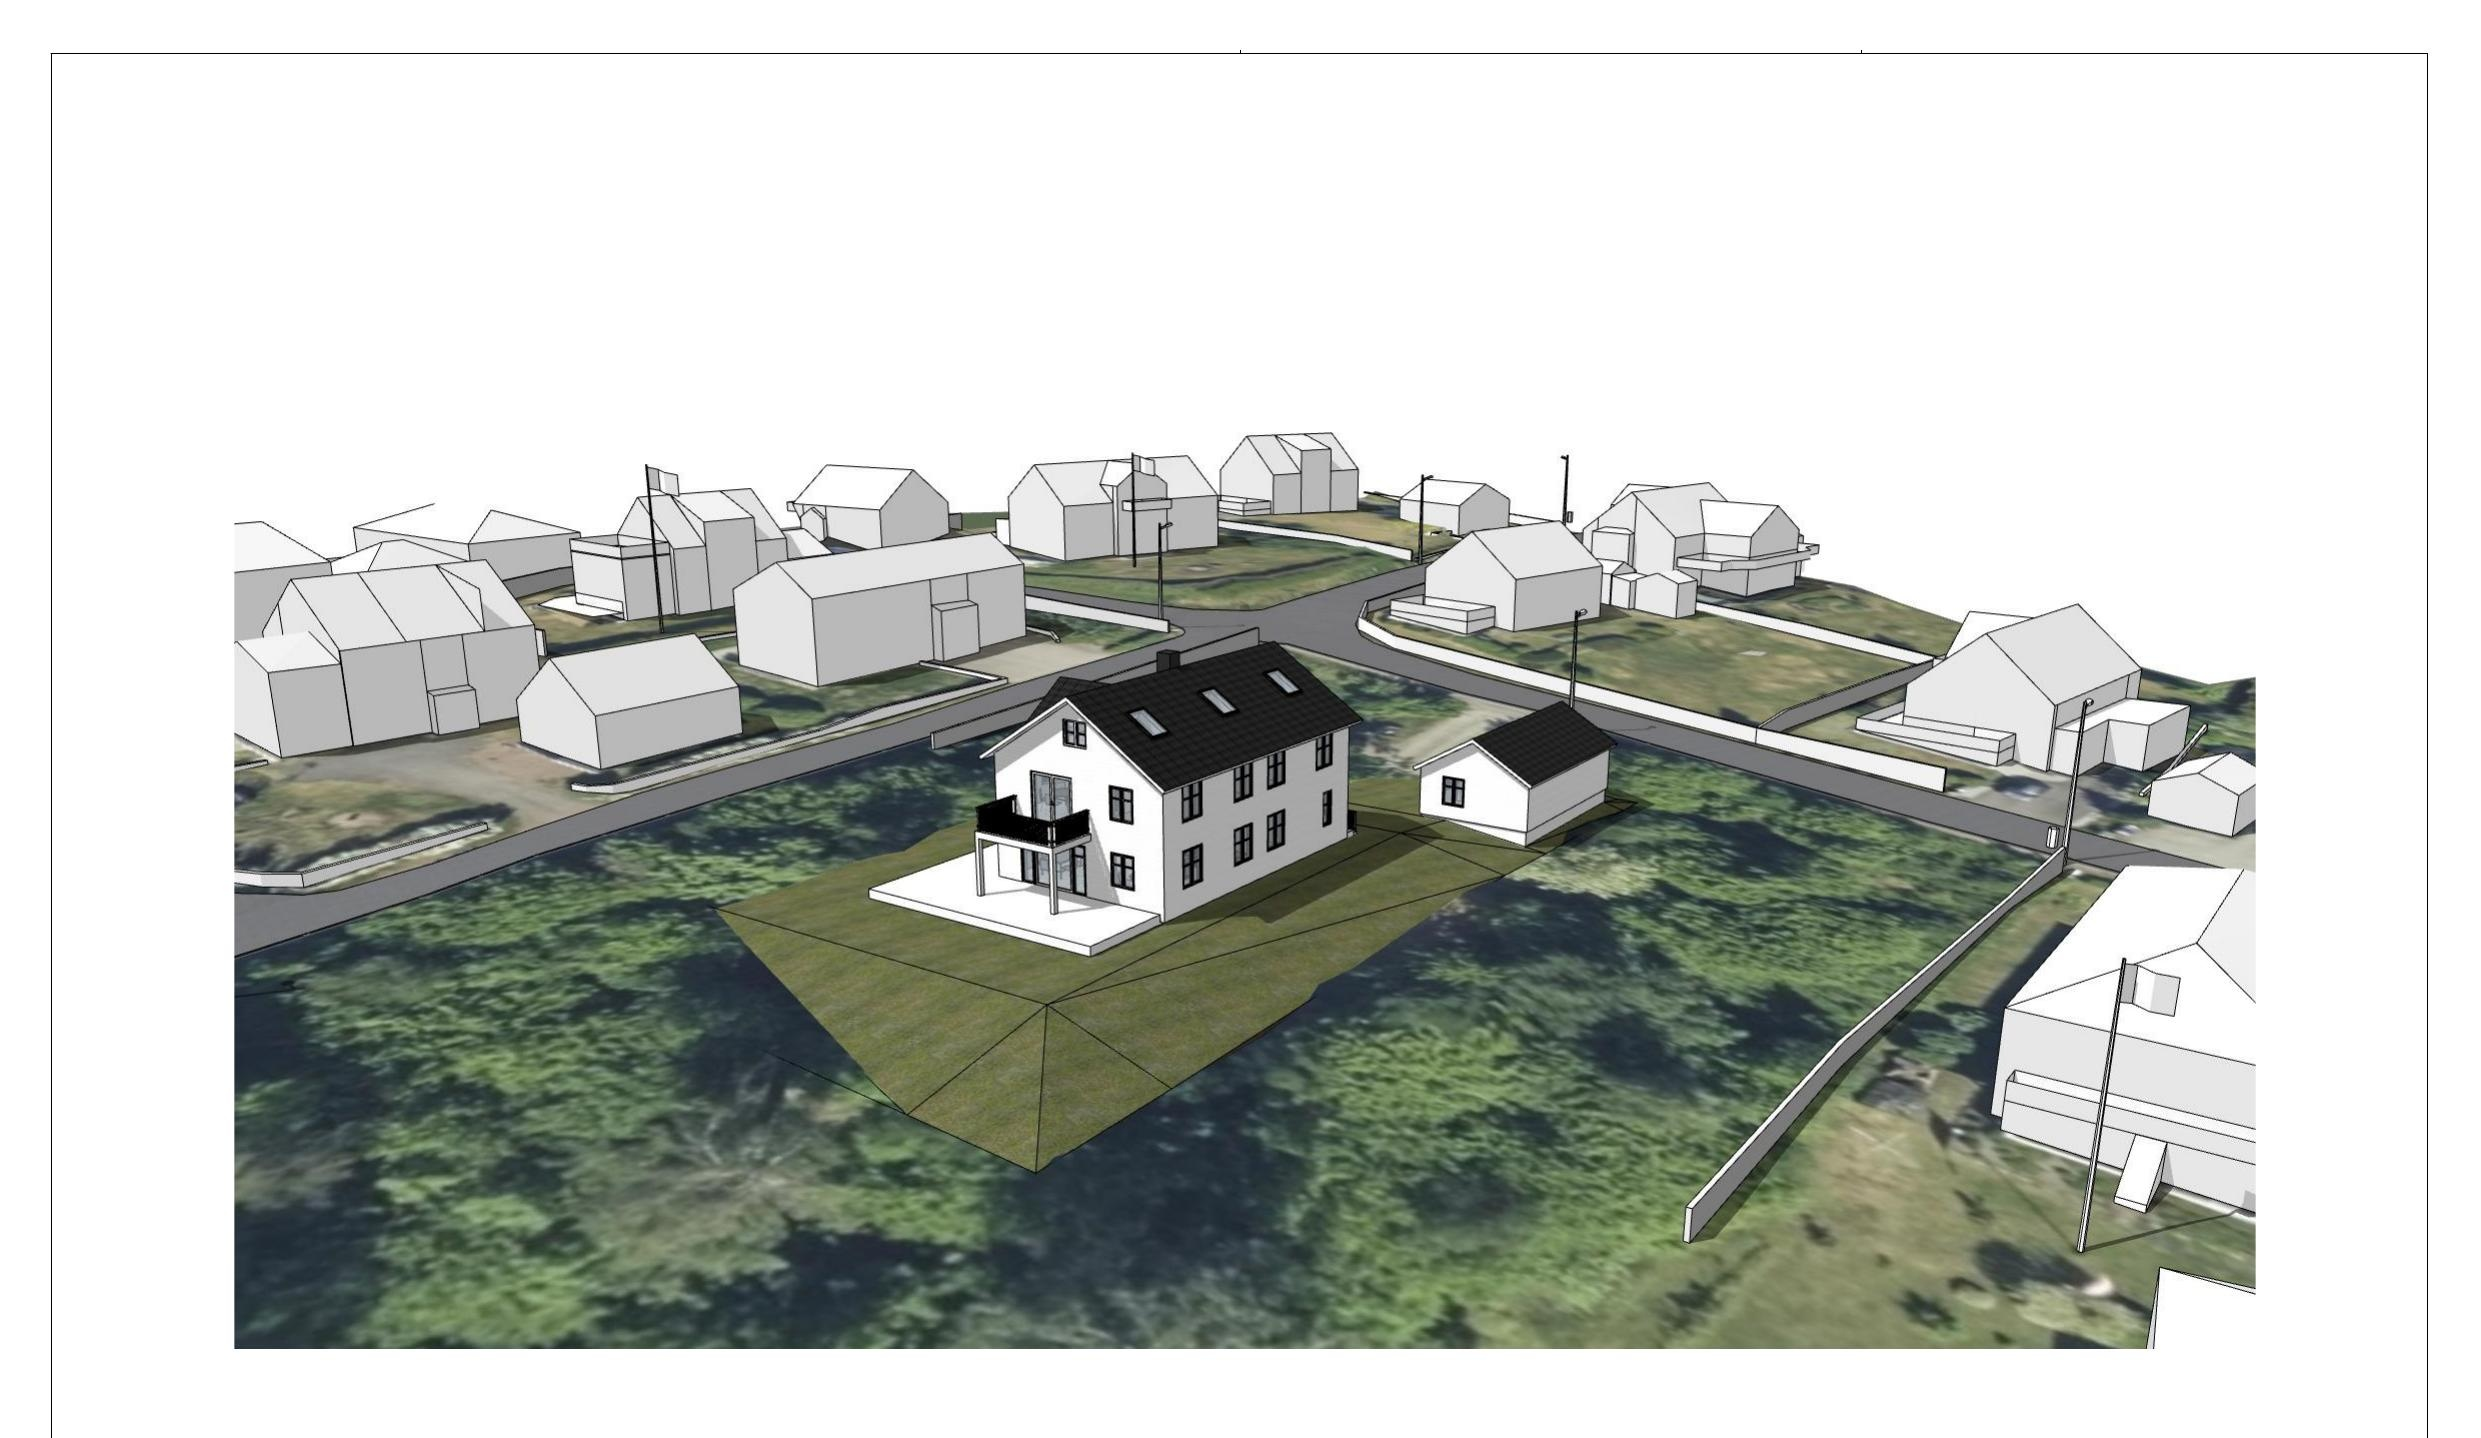
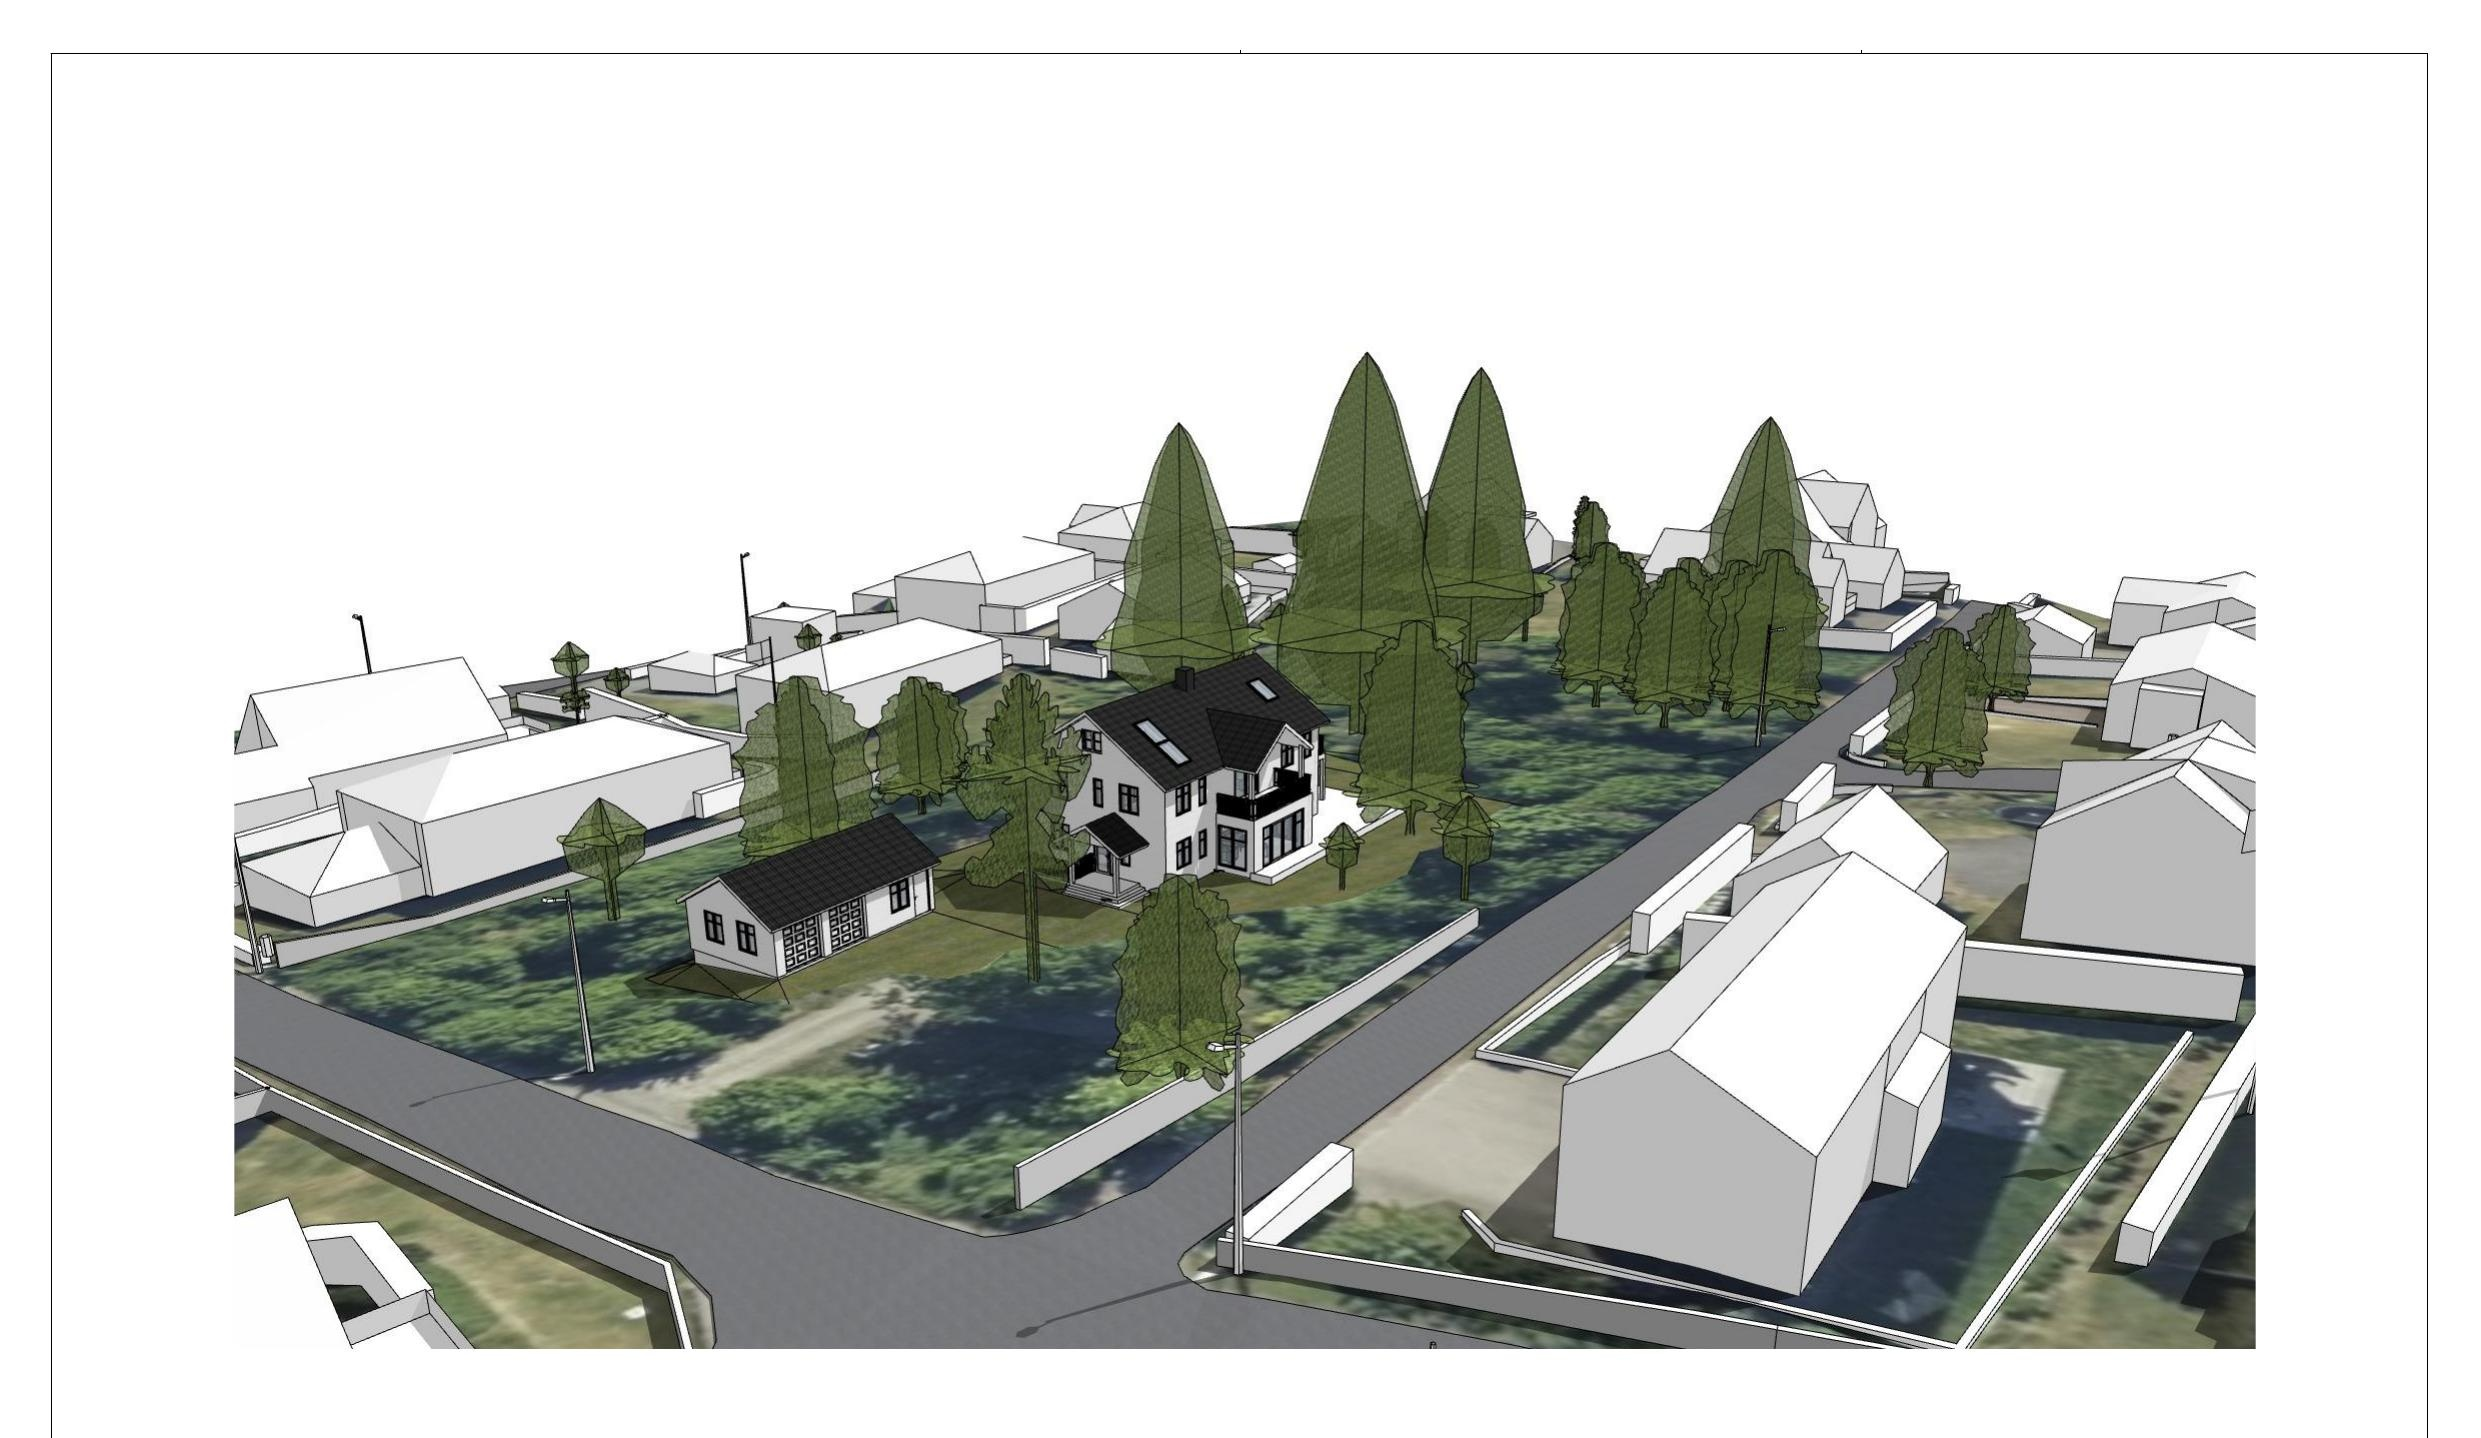
Add official A-900 Perspektiv Nordvest 3D drawing card to index.html

diff --git a/index.html b/index.html
@@ -237,6 +237,18 @@
           </div>
         </div>
 
+        <!-- Perspektiv Nordvest A-900 -->
+        <div class="drawing-card" data-cat="perspektiv">
+          <div class="drawing-img-wrapper" onclick="openLightbox('assets/images/drawings/perspektiv_nordvest-1.jpg', 'Tegning A-900 (2026-04-21): Perspektiv Nordvest (PS)')">
+            <span class="drawing-badge">A-900 (2026-04-21)</span>
+            <img src="assets/images/drawings/perspektiv_nordvest-1.jpg" alt="Perspektiv Nordvest A-900" class="drawing-img">
+          </div>
+          <div class="drawing-body">
+            <div class="drawing-title">Perspektiv Nordvest (A-900)</div>
+            <div class="drawing-desc">3D-perspektiv fra nordvest med hevede vindusflater, takvinkel og fasadelinje.</div>
+          </div>
+        </div>
+
         <!-- Før-bilde (Google Photos) -->
         <div class="drawing-card" data-cat="perspektiv">
           <div class="drawing-img-wrapper" onclick="openLightbox('assets/images/exterior_before.jpg', 'Opprinnelig Tilstand Myrteveien 6 (Google Photos)')">
